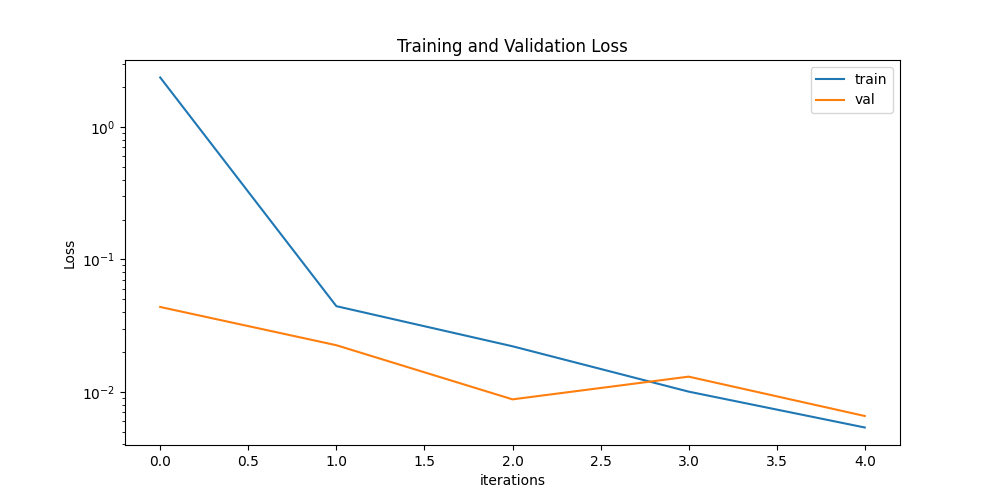
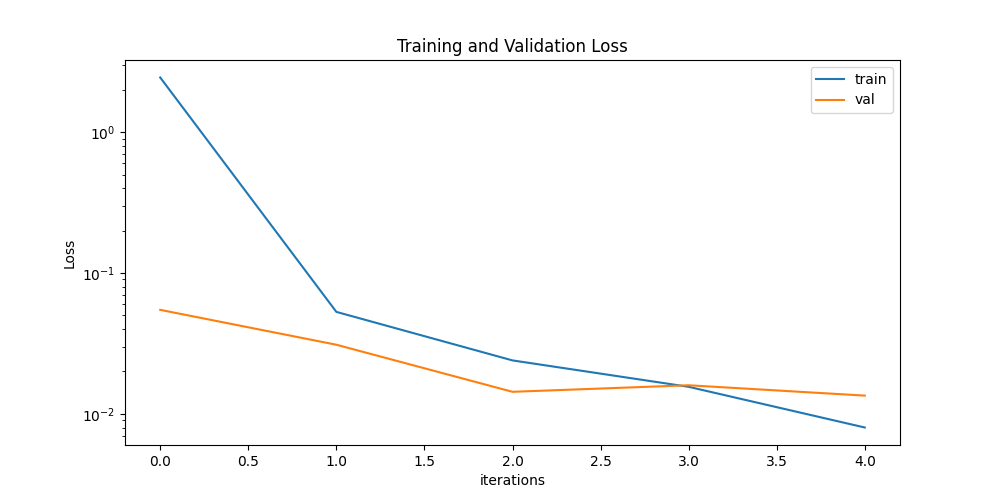
wide resnet partial freeze

diff --git a/few_shot_learning/training/resnet_trainer_v.py b/few_shot_learning/training/resnet_trainer_v.py
@@ -55,7 +55,7 @@ def prog_run():
     # Directory of the data
     data_dir = "data/raw/2_class_resnet/"
     plot_dir = "few_shot_learning/visualization/"
-    model_store_path = 'models/model_partial_wide_resnet18_fsl_2_class_cuda_v1.pth'
+    model_store_path = 'models/model_partial_wide_resnet18_fsl_2_class_cuda_v4.pth'
     #dataset mean and standard deviation
 
     data_mean = [0.4609, 0.4467, 0.4413]
@@ -95,7 +95,7 @@ def prog_run():
     # for name, child in convolutional_network.named_children():
     #     print(name)
     for name, child in convolutional_network.named_children():
-        if name in ['layer3', 'layer4']:
+        if name in ['layer4']:
             print(name + ' is unfrozen')
             for param in child.parameters():
                 param.requires_grad = True
@@ -105,27 +105,36 @@ def prog_run():
                 param.requires_grad = False
     def train(model, train_dataloader, criterion, optimizer, e = 5):
         running_loss =0
+        acc = []
         with tqdm(train_dataloader, unit="batch") as tepoch:
             for images, labels in tepoch:
+                
                 inputs, labels = images.to(device), labels.to(device)
                 tepoch.set_description(f"Epoch {int(e)+1}")
-
                 optimizer.zero_grad()
                 img = model(inputs)
                 
                 loss = criterion(img, labels)
                 running_loss+=loss.item()
                 loss.backward()
+
                 optimizer.step()
                 scheduler.step()
+
                 predictions = img.argmax(dim=1, keepdim=True).squeeze()
-                correct_preds = (predictions == labels).float().sum()
+                correct_preds = (predictions.int() == labels.int()).float()
+                acc.append(correct_preds)
+                accuracy = torch.cat(acc, dim=0).mean().cpu()
+                
                 correct_batch = correct_preds/batch_size
-                acc =float("{:.4f}".format(100. * correct_batch))
-                tepoch.set_postfix(loss=loss.item(), accuracy=float("{:.4f}".format(100. * correct_batch)))
+                #acc =float("{:.4f}".format(100. * correct_batch))
+
+                tepoch.set_postfix(loss=loss.item(), accuracy= float("{:.4f}".format(100 * accuracy)))
             #print("Epoch : {}/{}..".format(e+1,epochs),
             #"Training Loss: {:.6f}".format(running_loss/len(train_dataloader))) 
         training_loss = running_loss/len(train_dataloader)
+        accuracy = torch.cat(acc, dim=0).mean().cpu()
+        print('accuracy:', accuracy)
             #train_loss.append(running_loss)
         #plt.plot(train_loss,label="Training Loss")
         #plt.show() 
@@ -133,7 +142,7 @@ def prog_run():
         #filename_pth = 'models/model_resnet18_fsl_2_class_2.pth'
         #torch.save(model.state_dict(), filename_pth)
         #print(tot_acc)
-        return training_loss, acc
+        return training_loss, accuracy
     # def run():
     #     torch.multiprocessing.freeze_support()
 
@@ -172,7 +181,7 @@ def prog_run():
     for e in range(epochs):
         convolutional_network.train(True)
         avg_loss, avg_acc  = train(convolutional_network,train_dataloader,criterion, optimizer, e) 
-        
+        val_acc_total = []
         convolutional_network.eval()
         with torch.no_grad():
             running_vloss = 0.0
@@ -183,11 +192,12 @@ def prog_run():
                     vloss = criterion(voutputs, labels)
                     running_vloss += vloss.item()
                     predictions = voutputs.argmax(dim=1, keepdim=True).squeeze()
-                    correct_preds = (predictions == labels).float().sum()
+                    correct_preds = (predictions.int() == labels.int()).float()
+                    val_acc_total.append(correct_preds)
                     correct_batch = correct_preds/batch_size
-
+        accuracy = torch.cat(val_acc_total, dim=0).mean().cpu()
         avg_vloss = running_vloss / len(validation_dataloader)
-        avg_vacc = float("{:.4f}".format(100. * correct_batch))
+        avg_vacc = float("{:.4f}".format(100. * accuracy))
         print('LOSS train {} valid {}'.format(avg_loss, avg_vloss))
         print('ACCURACY train {} valid {}'.format(avg_acc, avg_vacc))
 

diff --git a/few_shot_learning/validation/prototypical_model.py b/few_shot_learning/validation/prototypical_model.py
@@ -95,7 +95,7 @@ class PrototypicalNetworkModel(nn.Module):
 
 def select_model(mode):
     if mode == 1:
-        filename_pth = 'models/model_partial_wide_resnet18_fsl_2_class_cuda_v1.pth'
+        filename_pth = 'models/model_partial_wide_resnet18_fsl_2_class_cuda_v4.pth'
         convolutional_network = wide_resnet50_2(pretrained=False)
         convolutional_network.fc = nn.Flatten()
         convolutional_network.load_state_dict(torch.load(filename_pth))
@@ -108,7 +108,8 @@ def select_model(mode):
 # 2 - Pretrained ResNet18 
 convolutional_network = select_model(1)
 model = PrototypicalNetworkModel(convolutional_network)
-
+device = torch.device("cuda:0" if torch.cuda.is_available() else "cpu")
+model.to(device)
 #Selecting the fsl parameters
 
 classes = os.listdir(dir)
@@ -190,7 +191,7 @@ def evaluate(data_loader: DataLoader):
     pred_list = []
     with torch.no_grad():
         for episode_index, (support_images,support_labels,query_images,query_labels,class_ids,) in tqdm(enumerate(data_loader), total=len(data_loader)):
-            correct, total, predicted_classes, exact_classes = evaluate_on_one_task(support_images, support_labels, query_images, query_labels)
+            correct, total, predicted_classes, exact_classes = evaluate_on_one_task(support_images.to(device), support_labels.to(device), query_images.to(device), query_labels.to(device))
             exact.extend(exact_classes)
             predicted.extend(predicted_classes)
             pred_list.append(correct)
